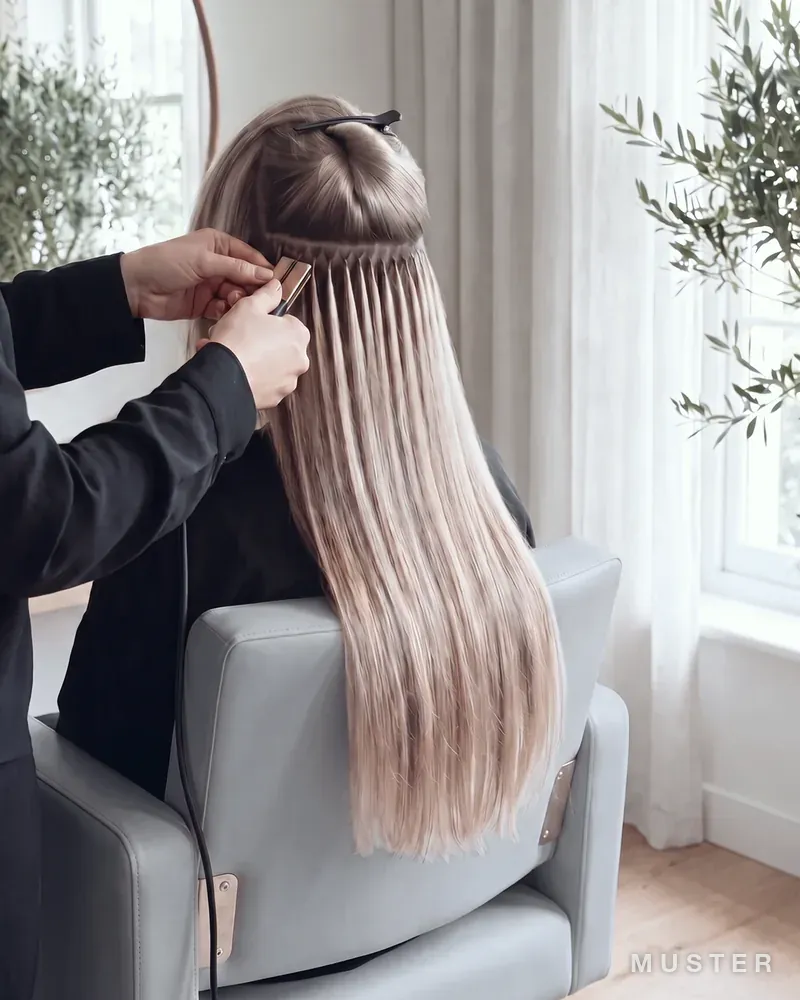
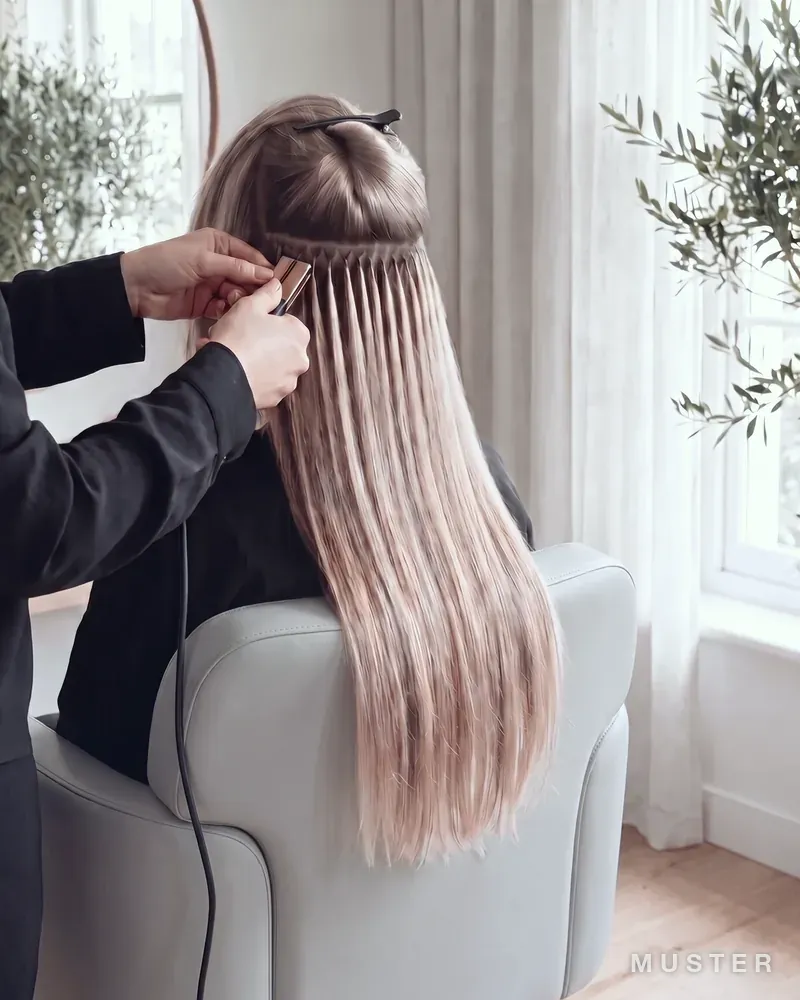
Update 26.10: Extensions-Bild v4, Jubiläum-Streifen grau, Hero-Buttons Hover weiß

diff --git a/index.html b/index.html
@@ -1164,6 +1164,10 @@ dialog.legal.ds .todo{background:#f1f3f5;border-radius:4px;padding:0 4px;color:#
 .jubi{display:flex;flex-wrap:wrap;align-items:baseline;gap:6px 14px;margin:-14px 0 30px;padding:14px 20px;border-radius:14px;background:linear-gradient(135deg,#f7eff1,#f9f7f8 60%,#eef1f4);border:1px solid #ecdde1}
 .jubi b{font:600 14px Inter,sans-serif;letter-spacing:.04em;color:var(--gold-d)}
 .jubi span{font-size:14px;color:var(--muted)}
+/* Jubiläums-Streifen: nur grau, ohne Rosa (Julia 26.10) */
+.promo{background:linear-gradient(90deg,#eef1f4,#f8f9fa 55%,#eef1f4);border-top:1px solid #e4e8ec;border-bottom:1px solid #e4e8ec}
+/* Hero-Buttons: Hover weiß statt rosa, wie die Adresse (Julia 26.10) */
+.qb #qbgo:hover,.qb .qblink:hover{background:#fff!important;border-color:var(--champ)!important;box-shadow:0 12px 24px -14px rgba(40,45,50,.35)!important}
 </style>
 <script type="application/ld+json">
 {"@context":"https://schema.org","@type":["HairSalon","BeautySalon"],
@@ -1270,7 +1274,7 @@ dialog.legal.ds .todo{background:#f1f3f5;border-radius:4px;padding:0 4px;color:#
         <button type="button" class="card svc reveal" data-open="farbe" aria-haspopup="dialog"><span class="ph" role="img" aria-label="Haare färben und Strähnen" style="background-image:url(m_color.webp?v=8)"><span class="wm" aria-hidden="true">Muster</span></span><span class="bd"><span class="st">Farbe &amp; Strähnen</span><span class="from">ab 39,90&nbsp;€</span><span class="more">Alle Preise &amp; mehr →</span></span></button>
         <button type="button" class="card svc reveal" data-open="braut" aria-haspopup="dialog"><span class="ph" role="img" aria-label="Braut mit Hochsteckfrisur" style="background-image:url(m_bridal.webp?v=7)"><span class="wm" aria-hidden="true">Muster</span></span><span class="bd"><span class="st">Braut &amp; Hochsteckfrisuren</span><span class="from">Beratung kostenlos</span><span class="more">Alle Preise &amp; mehr →</span></span></button>
         <button type="button" class="card svc reveal" data-open="keratin" aria-haspopup="dialog"><span class="ph" role="img" aria-label="Glattes, glänzendes Haar nach der Keratin-Glättung" style="background-image:url(m_extensions.webp?v=7)"><span class="wm" aria-hidden="true">Muster</span></span><span class="bd"><span class="st">Keratin-Glättung</span><span class="from">239&nbsp;€</span><span class="more">Alle Preise &amp; mehr →</span></span></button>
-        <button type="button" class="card svc reveal" data-open="ext" aria-haspopup="dialog"><span class="ph" role="img" aria-label="Tape-Extensions werden eingesetzt" style="background-image:url(m_svc_ext.webp?v=3)"><span class="wm" aria-hidden="true">Muster</span></span><span class="bd"><span class="st">Extensions</span><span class="from">ab 119&nbsp;€</span><span class="more">Alle Preise &amp; mehr →</span></span></button>
+        <button type="button" class="card svc reveal" data-open="ext" aria-haspopup="dialog"><span class="ph" role="img" aria-label="Tape-Extensions werden eingesetzt" style="background-image:url(m_svc_ext.webp?v=4)"><span class="wm" aria-hidden="true">Muster</span></span><span class="bd"><span class="st">Extensions</span><span class="from">ab 119&nbsp;€</span><span class="more">Alle Preise &amp; mehr →</span></span></button>
         <button type="button" class="card svc reveal" data-open="brauen" aria-haspopup="dialog"><span class="ph" role="img" aria-label="Make-up wird aufgetragen" style="background-image:url(m_svc_makeup.webp?v=5)"><span class="wm" aria-hidden="true">Muster</span></span><span class="bd"><span class="st">Brauen, Wimpern &amp; Make-up</span><span class="from">ab 9,50&nbsp;€</span><span class="more">Alle Preise &amp; mehr →</span></span></button>
         <button type="button" class="card svc reveal" data-open="makeup" aria-haspopup="dialog"><span class="ph" role="img" aria-label="Permanent-Make-up der Augenbrauen" style="background-image:url(m_svc_pmu.webp?v=1)"><span class="wm" aria-hidden="true">Muster</span></span><span class="bd"><span class="st">Permanent-Make-up</span><span class="from">ab 350&nbsp;€</span><span class="more">Alle Preise &amp; mehr →</span></span></button>
         <button type="button" class="card svc reveal" data-open="wax" aria-haspopup="dialog"><span class="ph" role="img" aria-label="Waxing, glatte Haut" style="background-image:url(m_svc_waxing_B.webp?v=4)"><span class="wm" aria-hidden="true">Muster</span></span><span class="bd"><span class="st">Waxing</span><span class="from">ab 25&nbsp;€</span><span class="more">Alle Preise &amp; mehr →</span></span></button>
@@ -1666,7 +1670,7 @@ const SV={
  farbe:{t:"Farbe & Strähnen",img:"color",v:8,cat:"Farbe",i:"Ansatz, Glossing, Nachfärben oder Strähnen. Wir färben mit GLYNT.",g:[["","Farbe"],["Angebote","Angebote",n=>/^Strähnen/.test(n)]]},
  braut:{t:"Braut & Hochsteckfrisuren",img:"bridal",v:7,cat:"Braut",i:"Kostenlose Beratung, Probefrisur und Probe-Make-up. Hochsteckfrisuren auch für Feiern und besondere Anlässe.",g:[["Braut","Braut"],["Hochsteckfrisur","Styling",n=>n==="Hochsteckfrisur"]]},
  keratin:{t:"Keratin-Glättung",img:"extensions",v:7,cat:"Keratin & Extensions",svc:"Keratin-Glättung Komplettpaket",i:"Seidig glattes, glänzendes Haar. Dafür setzen wir auf bewährte Premium-Produkte, zum Beispiel von Cocochoco.",g:[["","Keratin & Extensions",n=>/^Keratin/.test(n)]]},
- ext:{t:"Extensions",img:"svc_ext",v:3,cat:"Keratin & Extensions",i:"Mehr Länge und Fülle mit Bonding-, Tape- und Nanoring-Extensions. Für Tape-Extensions arbeiten wir mit FLAUNT by Paul Mitchell, in drei Längen. Wir beraten euch gern, welche Methode zu eurem Haar passt.",g:[["","Keratin & Extensions",n=>!/^Keratin/.test(n)]]},
+ ext:{t:"Extensions",img:"svc_ext",v:4,cat:"Keratin & Extensions",i:"Mehr Länge und Fülle mit Bonding-, Tape- und Nanoring-Extensions. Für Tape-Extensions arbeiten wir mit FLAUNT by Paul Mitchell, in drei Längen. Wir beraten euch gern, welche Methode zu eurem Haar passt.",g:[["","Keratin & Extensions",n=>!/^Keratin/.test(n)]]},
  brauen:{t:"Brauen, Wimpern & Make-up",img:"svc_makeup",v:5,cat:"Beauty",i:"Brauen zupfen, auch in Fadentechnik, Brauen und Wimpern färben. Make-up für den Tag und für den Abend.",g:[["Brauen & Wimpern","Beauty",n=>/^(Augenbrauen|Wimpern|Kombi)/.test(n)],["Gesicht","Beauty",n=>/^Gesicht/.test(n)],["Make-up","Beauty",n=>/Make-up$/.test(n)&&!/Permanent/.test(n)]]},
  makeup:{t:"Permanent-Make-up",img:"svc_pmu",v:1,cat:"Beauty",i:"Augenbrauen und Lippen, die lange schön bleiben. Jede Behandlung hat zwei Sitzungen.",g:[["Augenbrauen","Beauty",n=>/^Permanent-Make-up Augenbrauen/.test(n)],["Lippen","Beauty",n=>/^Permanent-Make-up Lippen/.test(n)]]},
  wax:{t:"Waxing",img:"svc_waxing_B",v:4,cat:"Beauty",i:"Professionelle Haarentfernung für ein gepflegtes und glattes Hautgefühl.",g:[["","Beauty",n=>/^Waxing/.test(n)]]},
